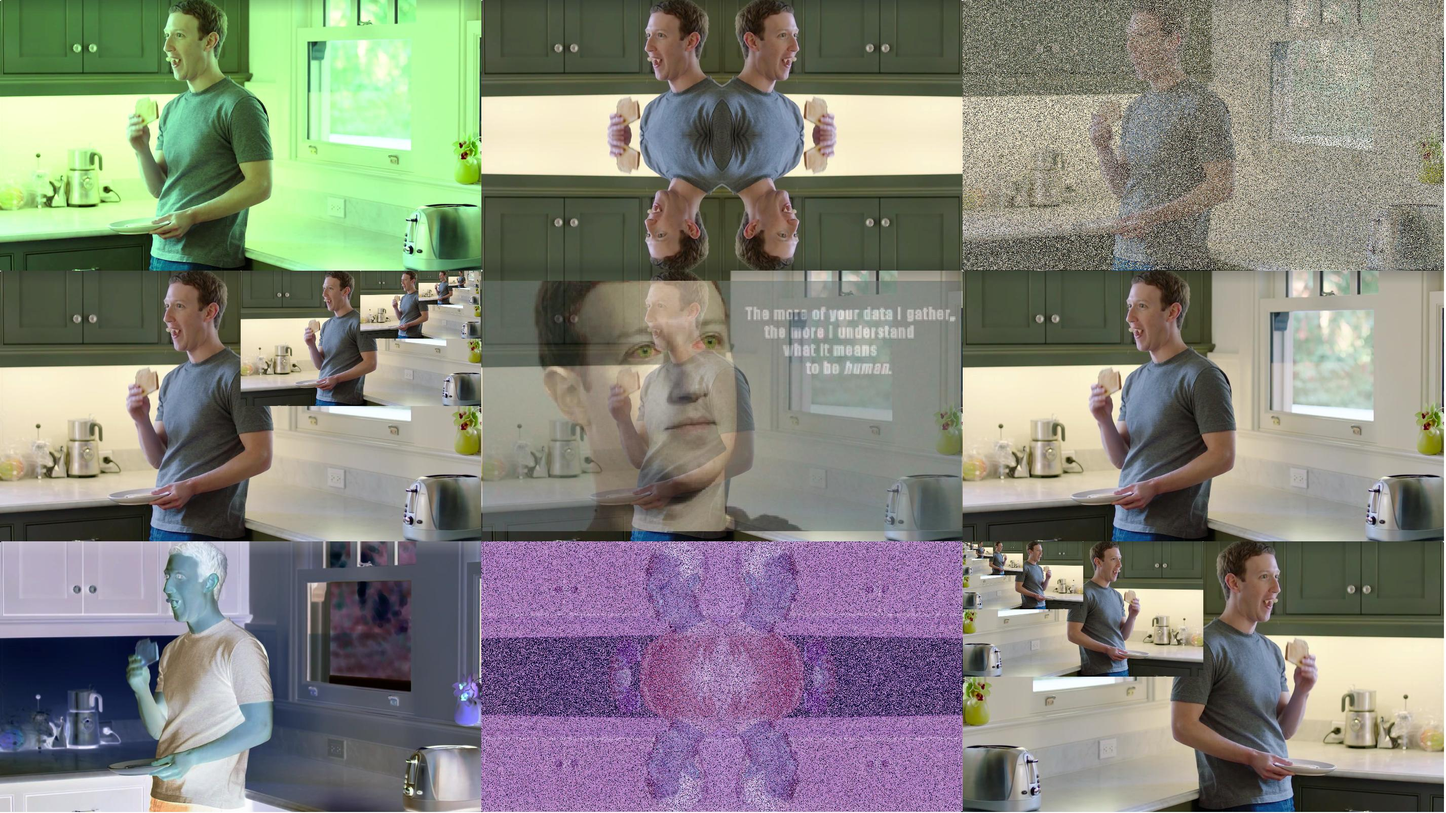
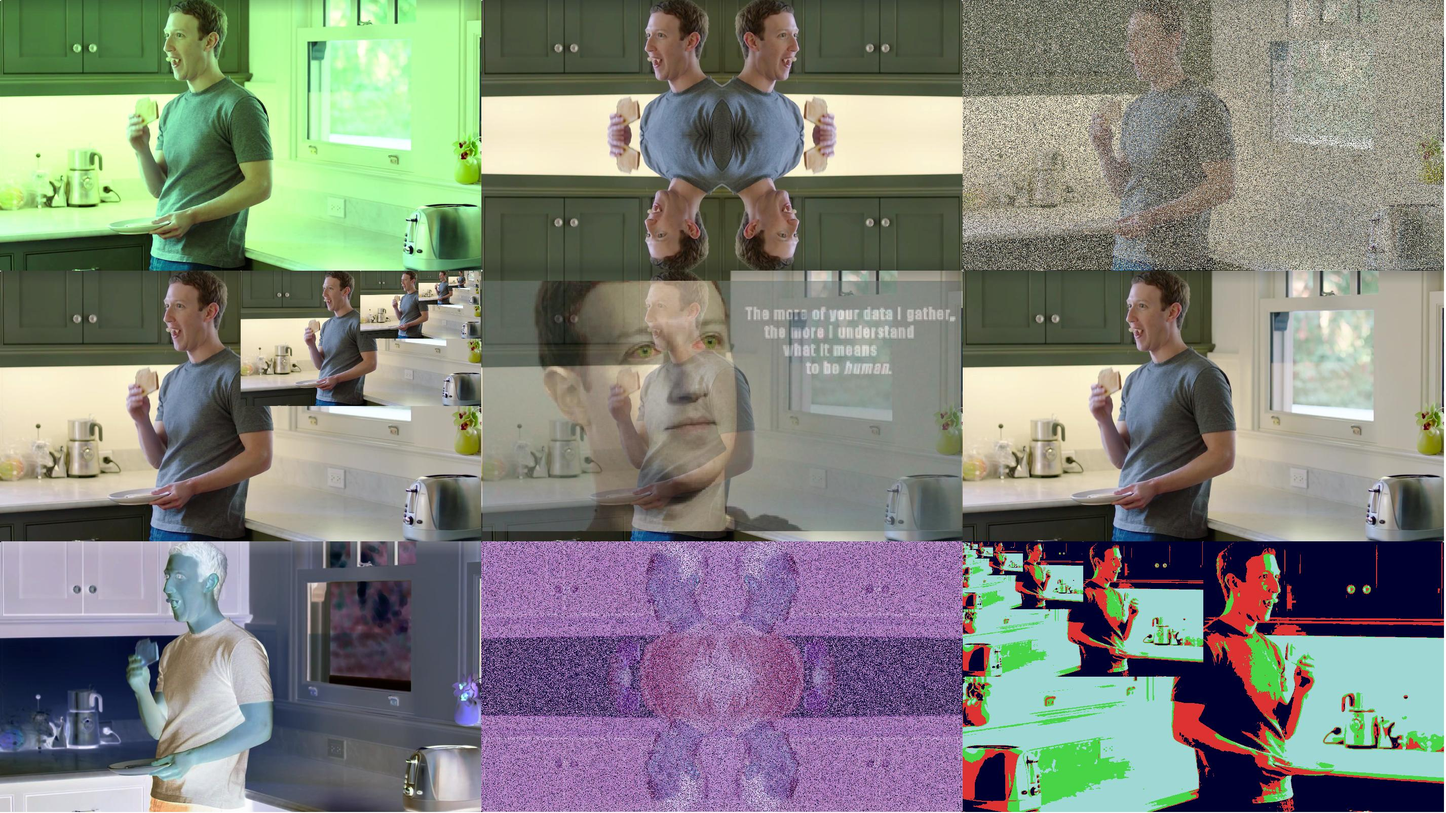
FINISHED

Changed region(s): [[0.3118, 0.6546, 1.0, 1.0], [0.6549, 0.0, 1.0, 0.3429]]

diff --git a/Collage/Picture.java b/Collage/Picture.java
@@ -466,6 +466,74 @@ public  void copySmall(String sf, int x, int y)
         lizardIFY();
         negativeZucc();
     }
+    
+    public void sheparFairey()
+    {
+        Pixel[] pixels_arr = getPixels();
+        int value, total=0, b, s, interval;
+        double avg;
+        for (Pixel spot: pixels_arr)
+        {
+            value = spot.getRed();
+            total = total + value;
+            value = spot.getBlue();
+            total = total + value;
+            value = spot.getGreen();
+            total = total + value;
+            avg = total / 3;
+            spot.setRed((int)avg);
+            spot.setBlue((int)avg);
+            spot.setGreen((int)avg);
+            total = 0;
+        }
+        
+        b = -1;
+        s = 256;
+        
+        for (Pixel spot: pixels_arr)
+        {
+            value = spot.getRed();
+            if (value > b)
+            {
+                b = value;
+            }
+            if (value < s)
+            {
+                s = value;
+            }
+        }
+        
+        interval = (b-s)/4;
+        
+        for (Pixel spot: pixels_arr)
+        {
+            value = spot.getRed();
+            if (value <= interval + 15)
+            {
+                spot.setRed(0);
+                spot.setBlue(47);
+                spot.setGreen(0);
+            }
+            if (value <= (interval*2) && value > interval + 15)
+            {
+                spot.setRed(220);
+                spot.setBlue(50);
+                spot.setGreen(50);
+            }
+            if (value <= ((interval*3)-30) && value > (interval*2))
+            {
+                spot.setRed(71);
+                spot.setBlue(71);
+                spot.setGreen(213);
+            }
+            if (value > ((interval*3)-30))
+            {
+                spot.setRed(158);
+                spot.setBlue(211);
+                spot.setGreen(215);
+            }
+        }
+    }
   
   
   

diff --git a/Collage/CollageMain.java b/Collage/CollageMain.java
@@ -22,6 +22,7 @@ public class CollageMain
         Picture zucc7= new Picture("images/zucc.png");
         Picture zucc8= new Picture("images/zucc.png");
         Picture zucc9= new Picture("images/zucc.png");
+        Picture zucc10= new Picture("images/zucc.png");
         zucc1.lizardIFY();
         temp.copyZucc(zucc1, 0, 0);
         zucc2.mirrorVertical();
@@ -39,9 +40,9 @@ public class CollageMain
         zucc9.all(zucc9);
         temp.copyZucc(zucc9, 950, 1068);
         zucc8.mirrorVerticalFull();
+        zucc8.sheparFairey();
         zucc8.recursivePasteLeft(zucc8, 2);
         temp.copyZucc(zucc8, 1900, 1068);
-        
         temp.explore();
         temp.write("images//FinalImage.jpg");
     }
